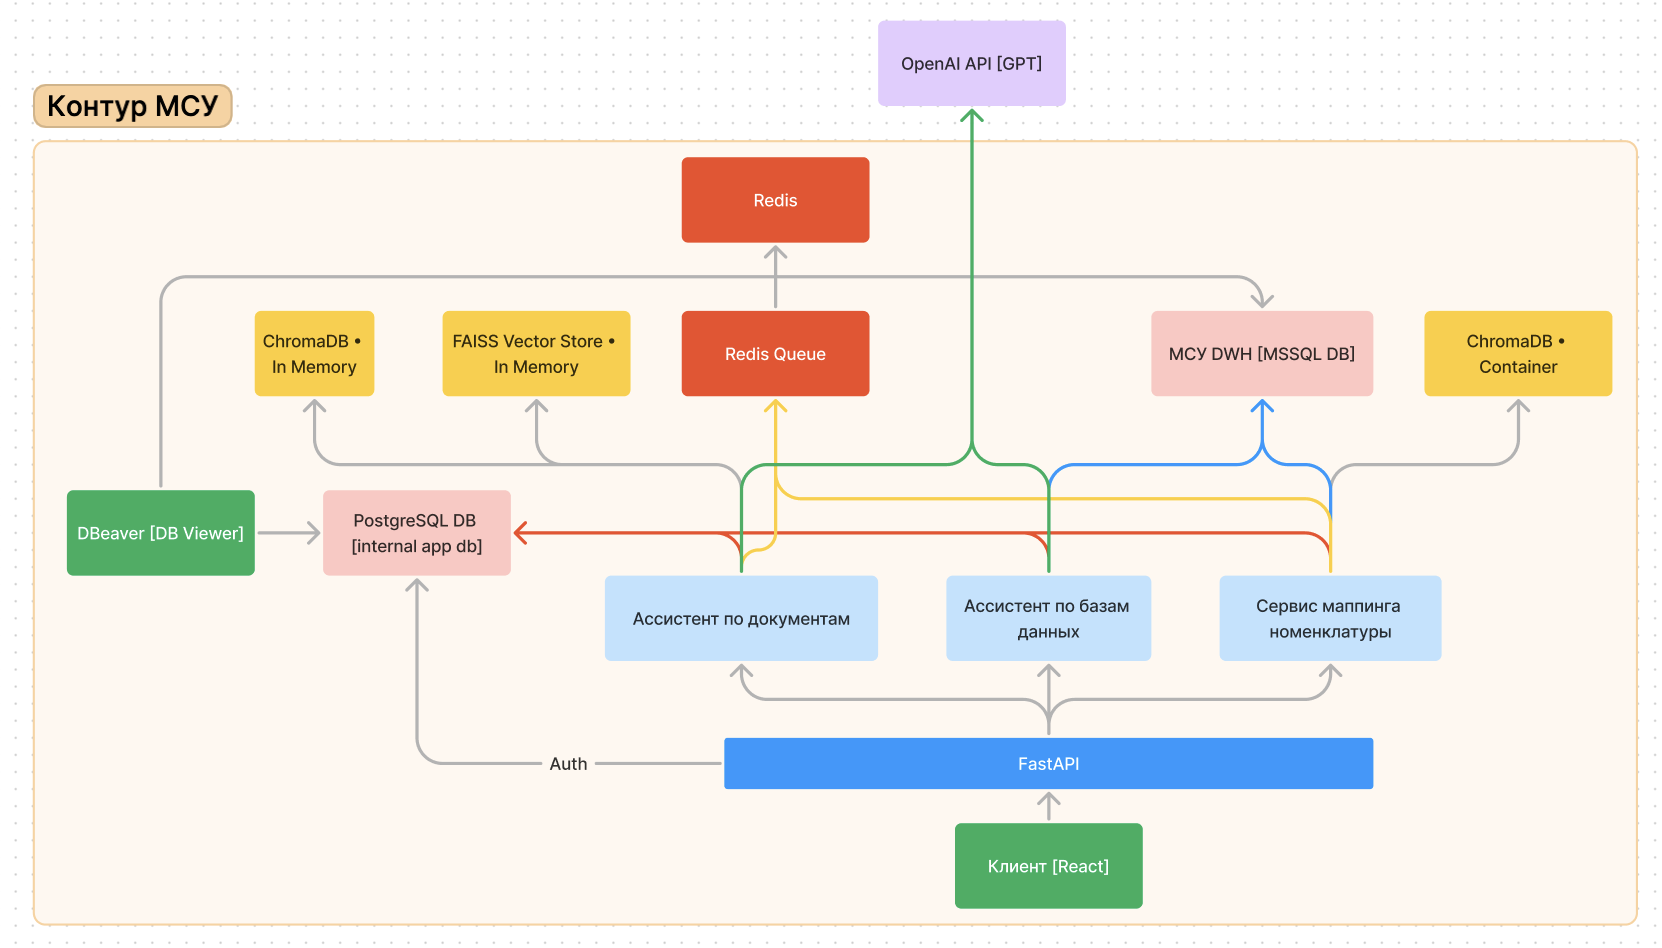
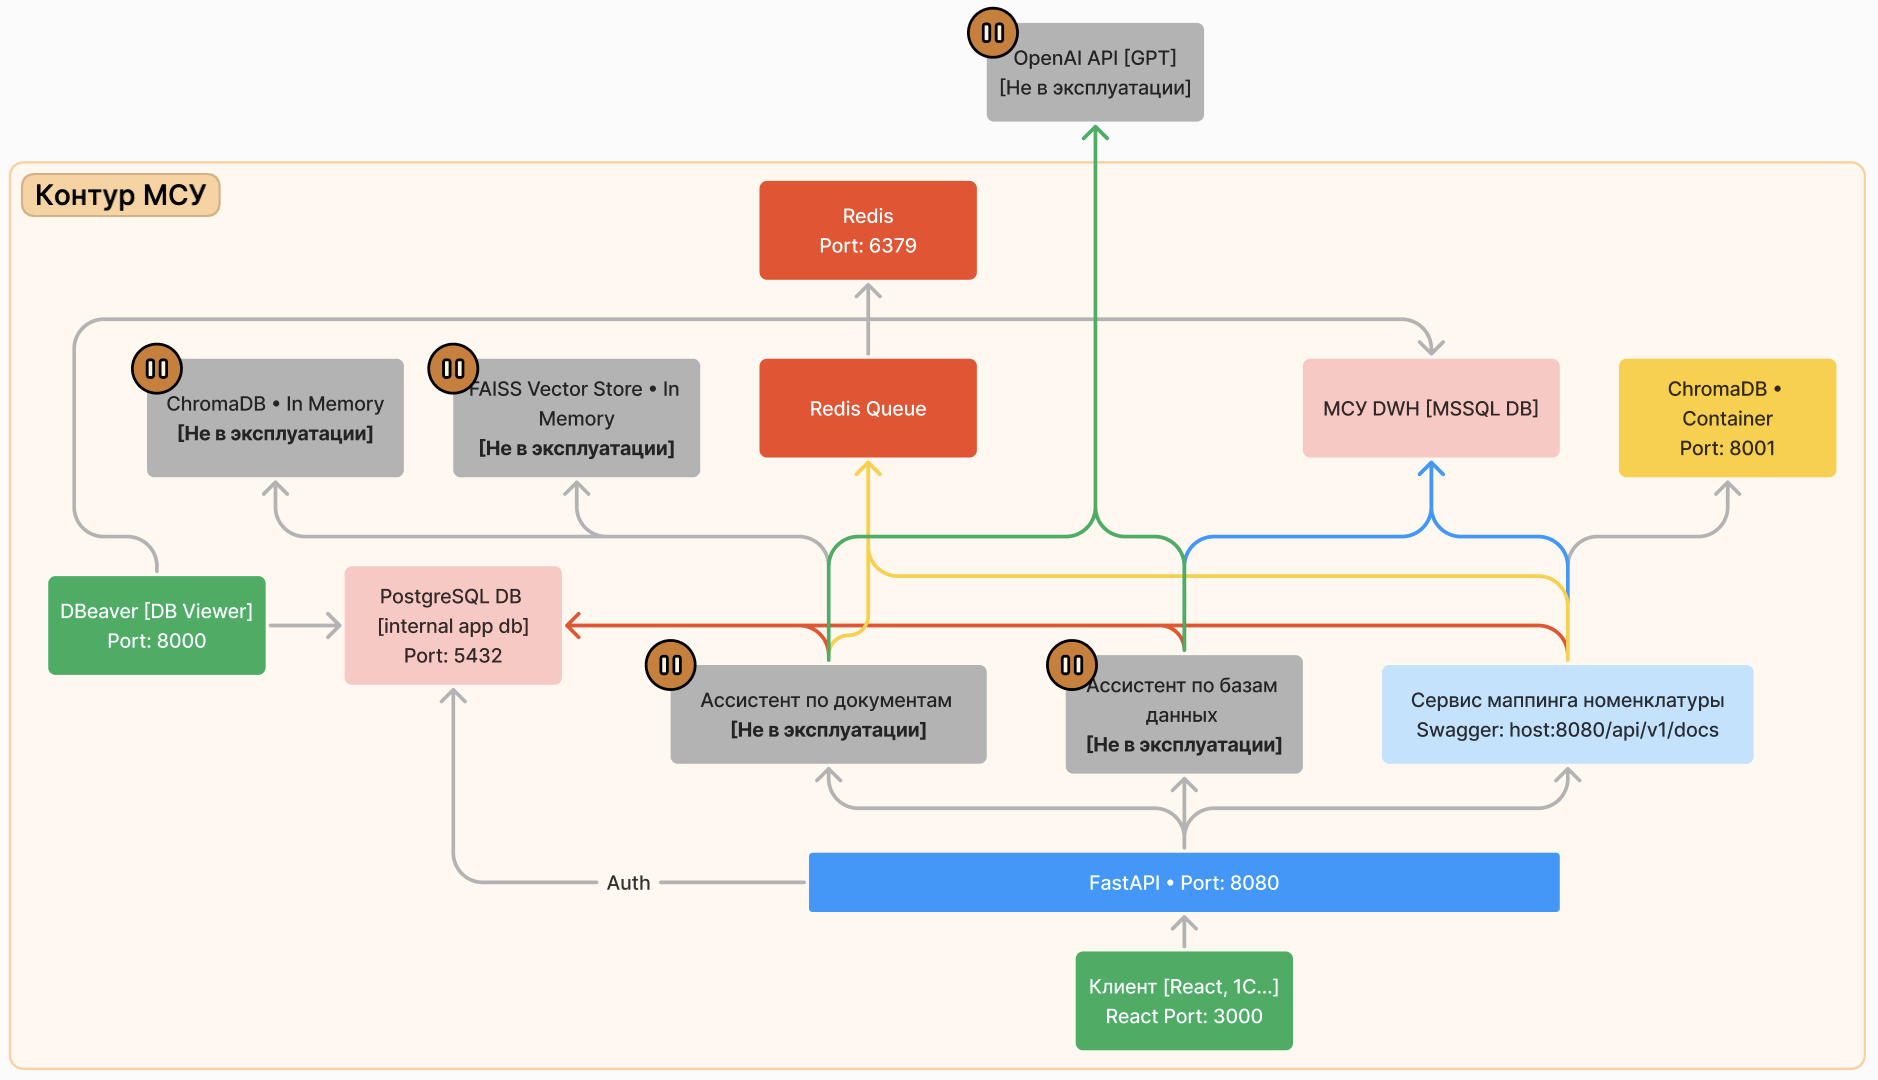
Update docs

Changed region(s): [[0.0, 0.0, 1.0, 1.0]]

diff --git a/docs/index.md b/docs/index.md
@@ -4,6 +4,70 @@
 
 ![Схема](images/app_architecture.png)
 
+Контейнеры
+
+- server
+    * FastAPI приложение.
+    * Порт: 8080.
+    * Креды для админ–аккаунта: admin@admin.com • admin.
+    * Swagger: http://<host>:8080/api/v1/docs.
+    * Документация: http://<host>:8080/static/docs.
+    * Имеет volume, который монтируется в /home/wv-bleschunovd/data.
+    В нём лежат веса для модели–классификатора.
+- rq-worker
+    * Контейнер для исполнения тяжёлых задач в background режиме.
+      Использует тот же image и volume, что и server контейнер.
+- redis-server
+    * Сервер для работы rq-worker.
+    * Порт: 6379.
+    * Пароля нет.
+- db
+    * PostgreSQL база для работы приложения.
+    Диаграмма базы находится в этой документации.
+    * Порт: 5432.
+    * Креды для входа в базу: bleschunov • xPZCDU14BcAZkL.
+- dbeaver
+    * Просмотрщик для внутренней базы приложения. Для разработки.
+    * Порт: 8000.
+    * Креды для входа в базу: bleschunov • xPZCDU14BcAZkL.
+- chroma-db
+    * Векторстор для хранения векторов [эмбеддингов] номенклатур.
+    * Порт: 8001.
+
+Контейнеры server, rq-worker и chroma-db запускаются из docker-compose.yml в репозитории.
+Перезапускаются на каждый push в репозиторий.
+
+Контейнеры db, dbeaver, redis-server запускаются из /opt/chat-gpt-inf/docker-compose.yml.
+
+## Сервера
+
+Используется две тачки: продовая и для разработки [prod, dev].
+
+Адреса:
+
+- dev тачка: 192.168.0.238
+- prod тачка: 192.168.0.176
+
+
+## Описание таблиц базы данных приложения
+
+Таблицы
+
+- alembic_version — версия последней накатанной миграции.
+- chat — чат конкретного пользователя.
+- classifier_version — версии моделей–классификаторов.
+- database_prediction_config — конфиг, какие этапы включать в процесс создания ответа на вопрос по базе данных.
+- file — обработанные файлы для ассистента по документам.
+- mark — оценка сообщения.
+- message — cообщение в чате.
+- mode — режим работы ассистент [базы данных, документы].
+- mode_tenant — таблица многие—ко—многим для режима и тенанта.
+- prompt — промпт для создания ответа ассистента по базам данных.
+- review — текстовый отзыв на сообщение.
+- tenant — тенант, символизирует отдел внутри компании.
+- user — пользователь.
+- user_tenant — таблица многие—ко—многим для тенанта и пользователя.
+
 ## Аутентификация пользователей
 
 Аутентификация пользователей происходит через FastAPI по спецификации 
